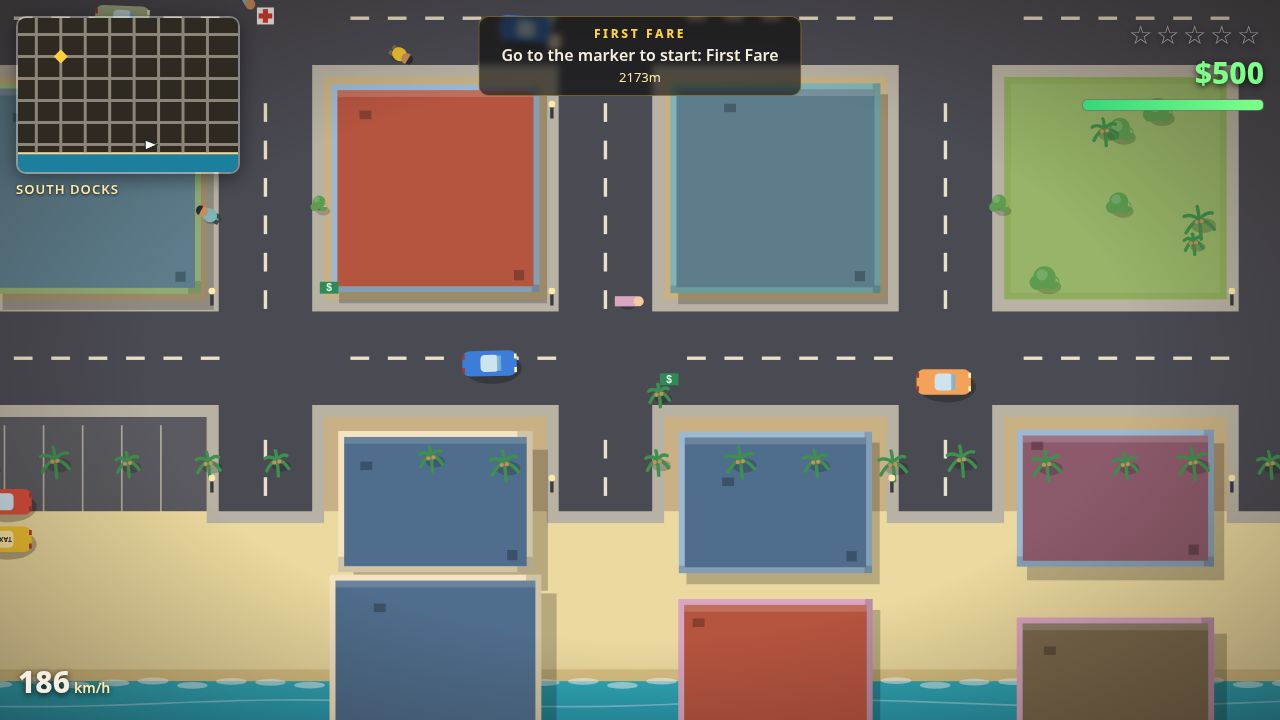
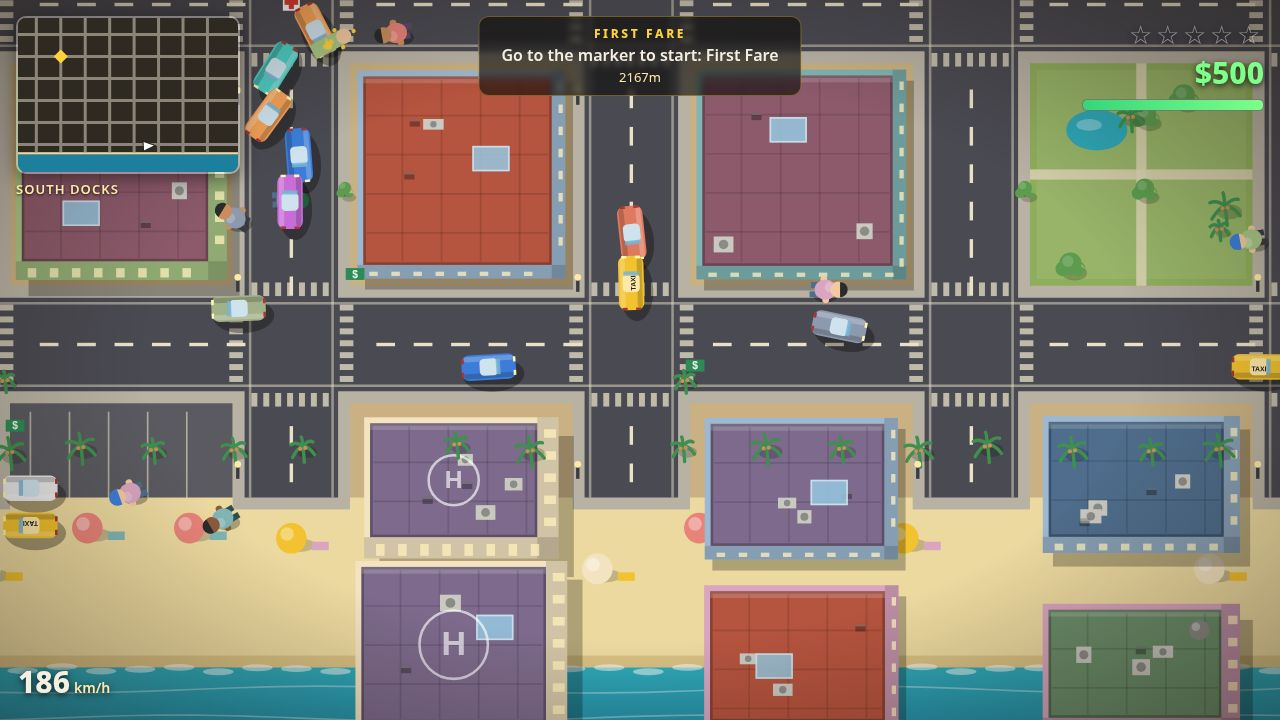
Tone down helipads, segmented beach umbrellas

diff --git a/game/src/render.js b/game/src/render.js
@@ -134,14 +134,20 @@ export function createRenderer(canvas) {
         ctx.fill();
         ctx.fillStyle = '#8a8a84';
         ctx.fillRect(x - 1, uy - 4, 2, 14);
-        ctx.fillStyle = color;
+        // Canopy: alternating colored and white wedges, like a real umbrella.
+        for (let w = 0; w < 6; w++) {
+          ctx.fillStyle = w % 2 === 0 ? color : '#f5efe2';
+          ctx.beginPath();
+          ctx.moveTo(x, uy);
+          ctx.arc(x, uy, 18, (w * Math.PI) / 3, ((w + 1) * Math.PI) / 3);
+          ctx.closePath();
+          ctx.fill();
+        }
+        ctx.strokeStyle = 'rgba(0,0,0,0.2)';
+        ctx.lineWidth = 1.5;
         ctx.beginPath();
         ctx.arc(x, uy, 18, 0, Math.PI * 2);
-        ctx.fill();
-        ctx.fillStyle = 'rgba(255,255,255,0.35)';
-        ctx.beginPath();
-        ctx.arc(x - 5, uy - 5, 8, 0, Math.PI * 2);
-        ctx.fill();
+        ctx.stroke();
         ctx.fillStyle = UMBRELLA_COLORS[(uh + 2) % UMBRELLA_COLORS.length];
         ctx.fillRect(x + 24, uy + 4, 20, 10);
       }
@@ -365,8 +371,9 @@ export function createRenderer(canvas) {
         ctx.arc(tx - 4, ty - 4, 5, 0, Math.PI * 2);
         ctx.fill();
       }
-      if (b.floors >= 4) {
-        // Helipad on the tallest towers: a ring with an H.
+      if (b.floors >= 4 && next() < 0.5) {
+        // Helipad on the tallest towers: a ring with an H. Only about half
+        // of them have one, so the skyline does not repeat itself.
         const hx = rx + rw / 2;
         const hy = ry + rh / 2;
         const hr = Math.min(rw, rh) * 0.22;
